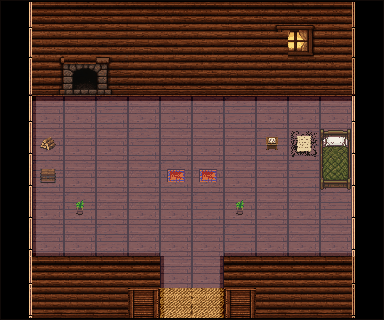
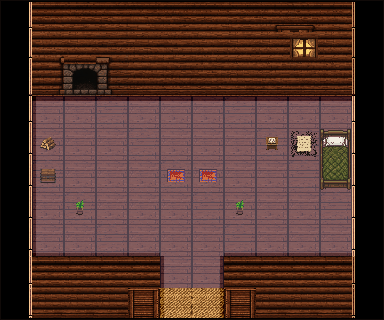
Cabin: seat full window into one mid wall tile
Crop the glowing window (with frame) from the continuous strip and paste
it onto plain log mid so the inset is not half-cut across strip columns.
Scrub neighbor mid cells that still held partial window slices.

Changed region(s): [[0.75, 0.0938, 0.8438, 0.1875]]

diff --git a/tools/interiors/assemble_cabin_gen.py b/tools/interiors/assemble_cabin_gen.py
@@ -370,6 +370,48 @@ def _lower_hearth_column(face: Image.Image, fire_c: int, plain_c: int) -> Image.
     return out
 
 
+def _seat_window_tile(face: Image.Image, plain_mid: Image.Image) -> Image.Image:
+    """Crop the full glowing window (frame included) from the strip into one 32×32.
+
+    Continuous strips often straddle the window across two mid cells; placing only
+    one cell looks half-cut. Re-home the AI window pixels onto plain AI logs.
+    """
+    px = face.load()
+    xs: list[int] = []
+    ys: list[int] = []
+    for y in range(face.height):
+        for x in range(face.width):
+            r, g, b, a = px[x, y]
+            if a < 8:
+                continue
+            if r > 170 and g > 110 and b < 120 and r >= g > b:
+                xs.append(x)
+                ys.append(y)
+    if not xs:
+        return plain_mid
+    # Expand for the dark wood frame around the amber panes.
+    pad = 5
+    x0 = max(0, min(xs) - pad)
+    x1 = min(face.width, max(xs) + pad + 1)
+    y0 = max(0, min(ys) - pad)
+    y1 = min(face.height, max(ys) + pad + 1)
+    win = face.crop((x0, y0, x1, y1))
+    # Fit inside the tile with a 2px log margin.
+    max_w, max_h = T - 4, T - 4
+    if win.width > max_w or win.height > max_h:
+        scale = min(max_w / win.width, max_h / win.height)
+        win = win.resize(
+            (max(1, int(win.width * scale)), max(1, int(win.height * scale))),
+            Image.Resampling.NEAREST,
+        )
+    base = plain_mid.copy()
+    ox = (T - win.width) // 2
+    oy = (T - win.height) // 2
+    base.paste(win, (ox, oy))
+    # Re-snap palette/alpha like other wall cells (already 32×32).
+    return opaque_tile(base)
+
+
 def slice_walls_from_strips(face_src: Path, side_src: Path) -> dict[int, Image.Image]:
     """Full masonry face strip + side thickness strip → hard 32×32 wall ids."""
     face = scale_strip(face_src, STRIP_COLS, 3)
@@ -419,11 +461,12 @@ def slice_walls_from_strips(face_src: Path, side_src: Path) -> dict[int, Image.I
     else:
         out[W_FIRE] = cells[1][fire_c]
     out[STRIP_MID0 + fire_c] = cells[1][plain]
-    # Scrub inset bleed from neighboring mid cells (half-frame / half-window slices).
-    for c in (map_c - 1, map_c + 1):
+    # Seat the full window (may span 2 strip cols) into one mid tile on plain logs,
+    # then scrub neighbor mid cells so no half-window remains beside it.
+    out[W_MAP] = _seat_window_tile(face, cells[1][plain])
+    for c in (map_c - 1, map_c, map_c + 1):
         if 0 < c < STRIP_COLS - 1 and c != fire_c:
             out[STRIP_MID0 + c] = cells[1][plain]
-    out[W_MAP] = cells[1][map_c]
     meta = {
         "fire_col": fire_c,
         "map_col": map_c,
@@ -435,7 +478,7 @@ def slice_walls_from_strips(face_src: Path, side_src: Path) -> dict[int, Image.I
     print(
         f"strip insets: fire_col={fire_c} window_col={map_c} plain_col={plain} "
         f"mid_hole={mid_hole:.3f} base_hole={base_hole:.3f} "
-        f"window_score={_cell_window_score(cells[1][map_c]):.3f}"
+        f"window_score={_cell_window_score(out[W_MAP]):.3f}"
     )
 
     # Cutaway sides: thin AI rim + black void (not a stretched dark column).
